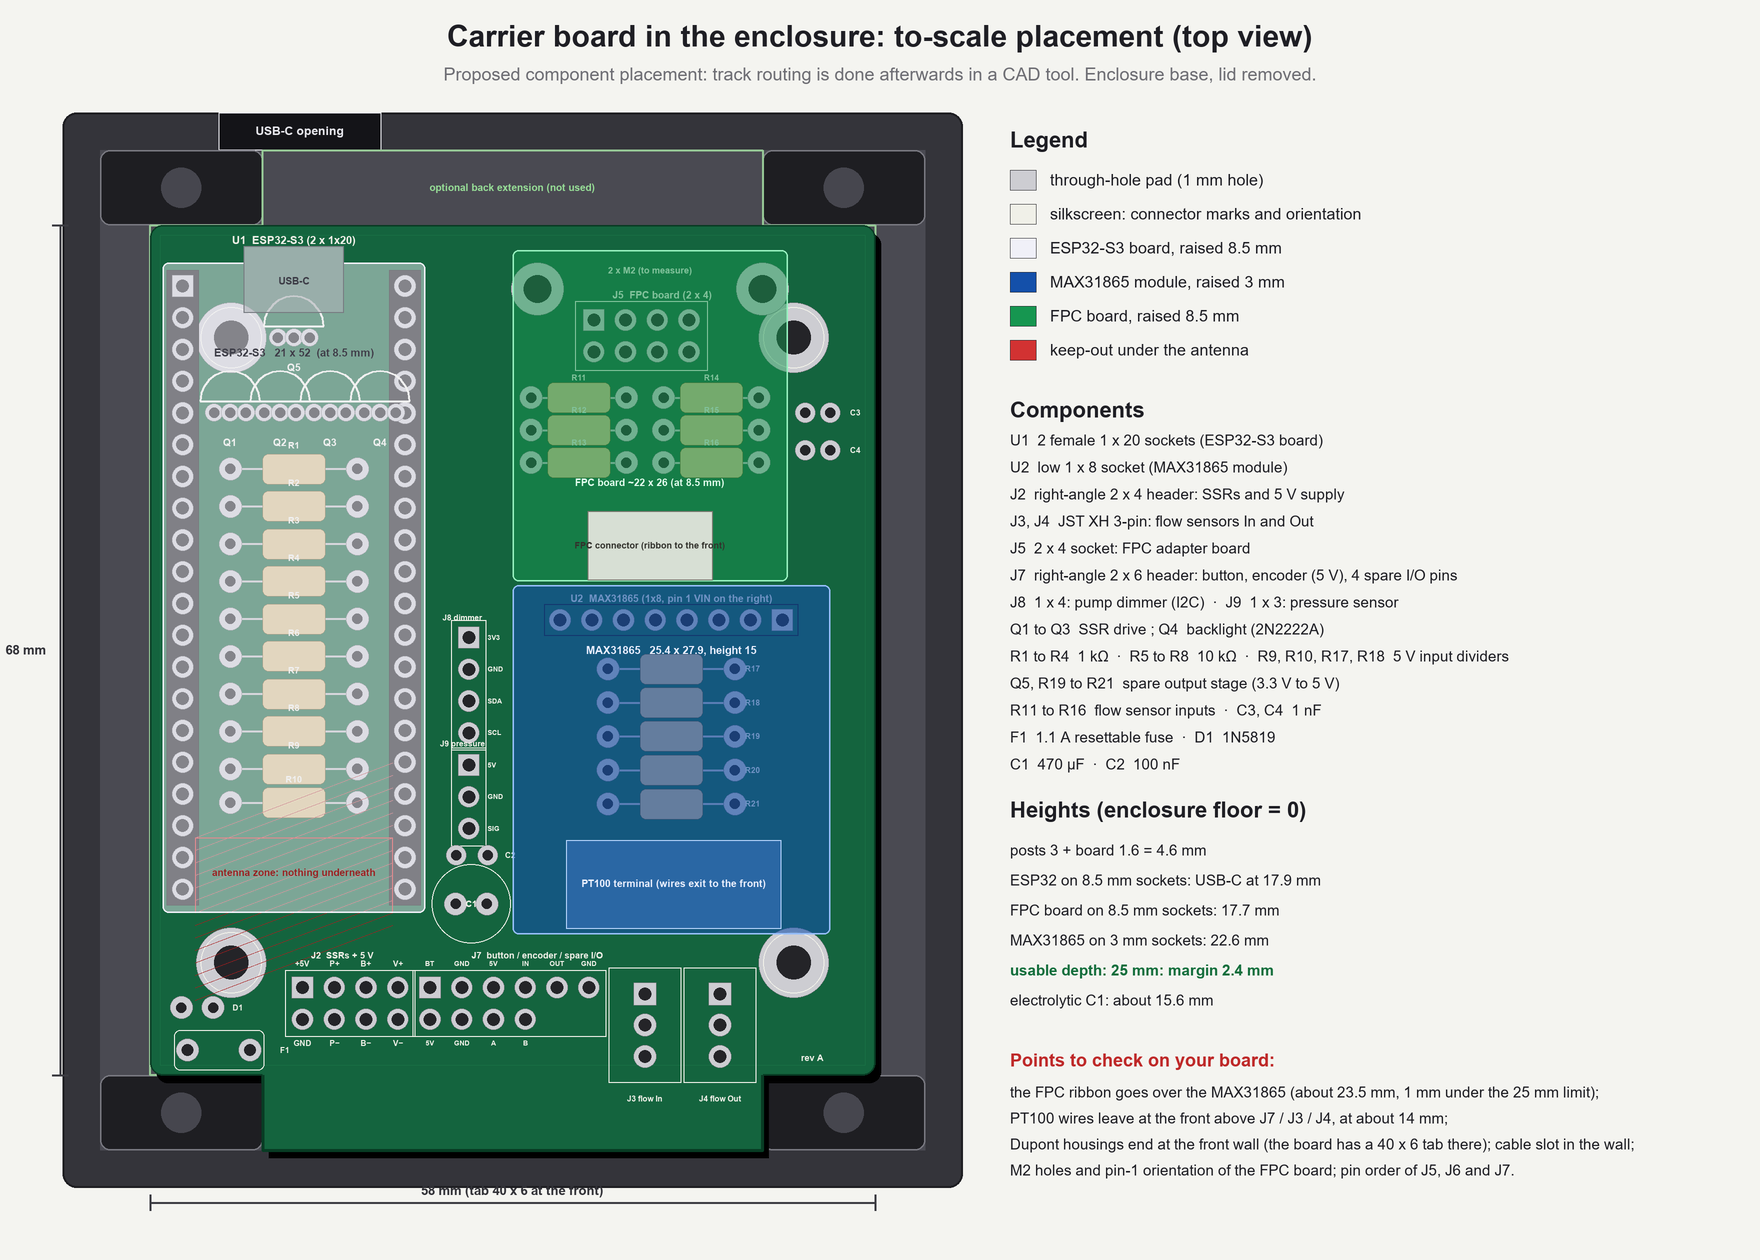
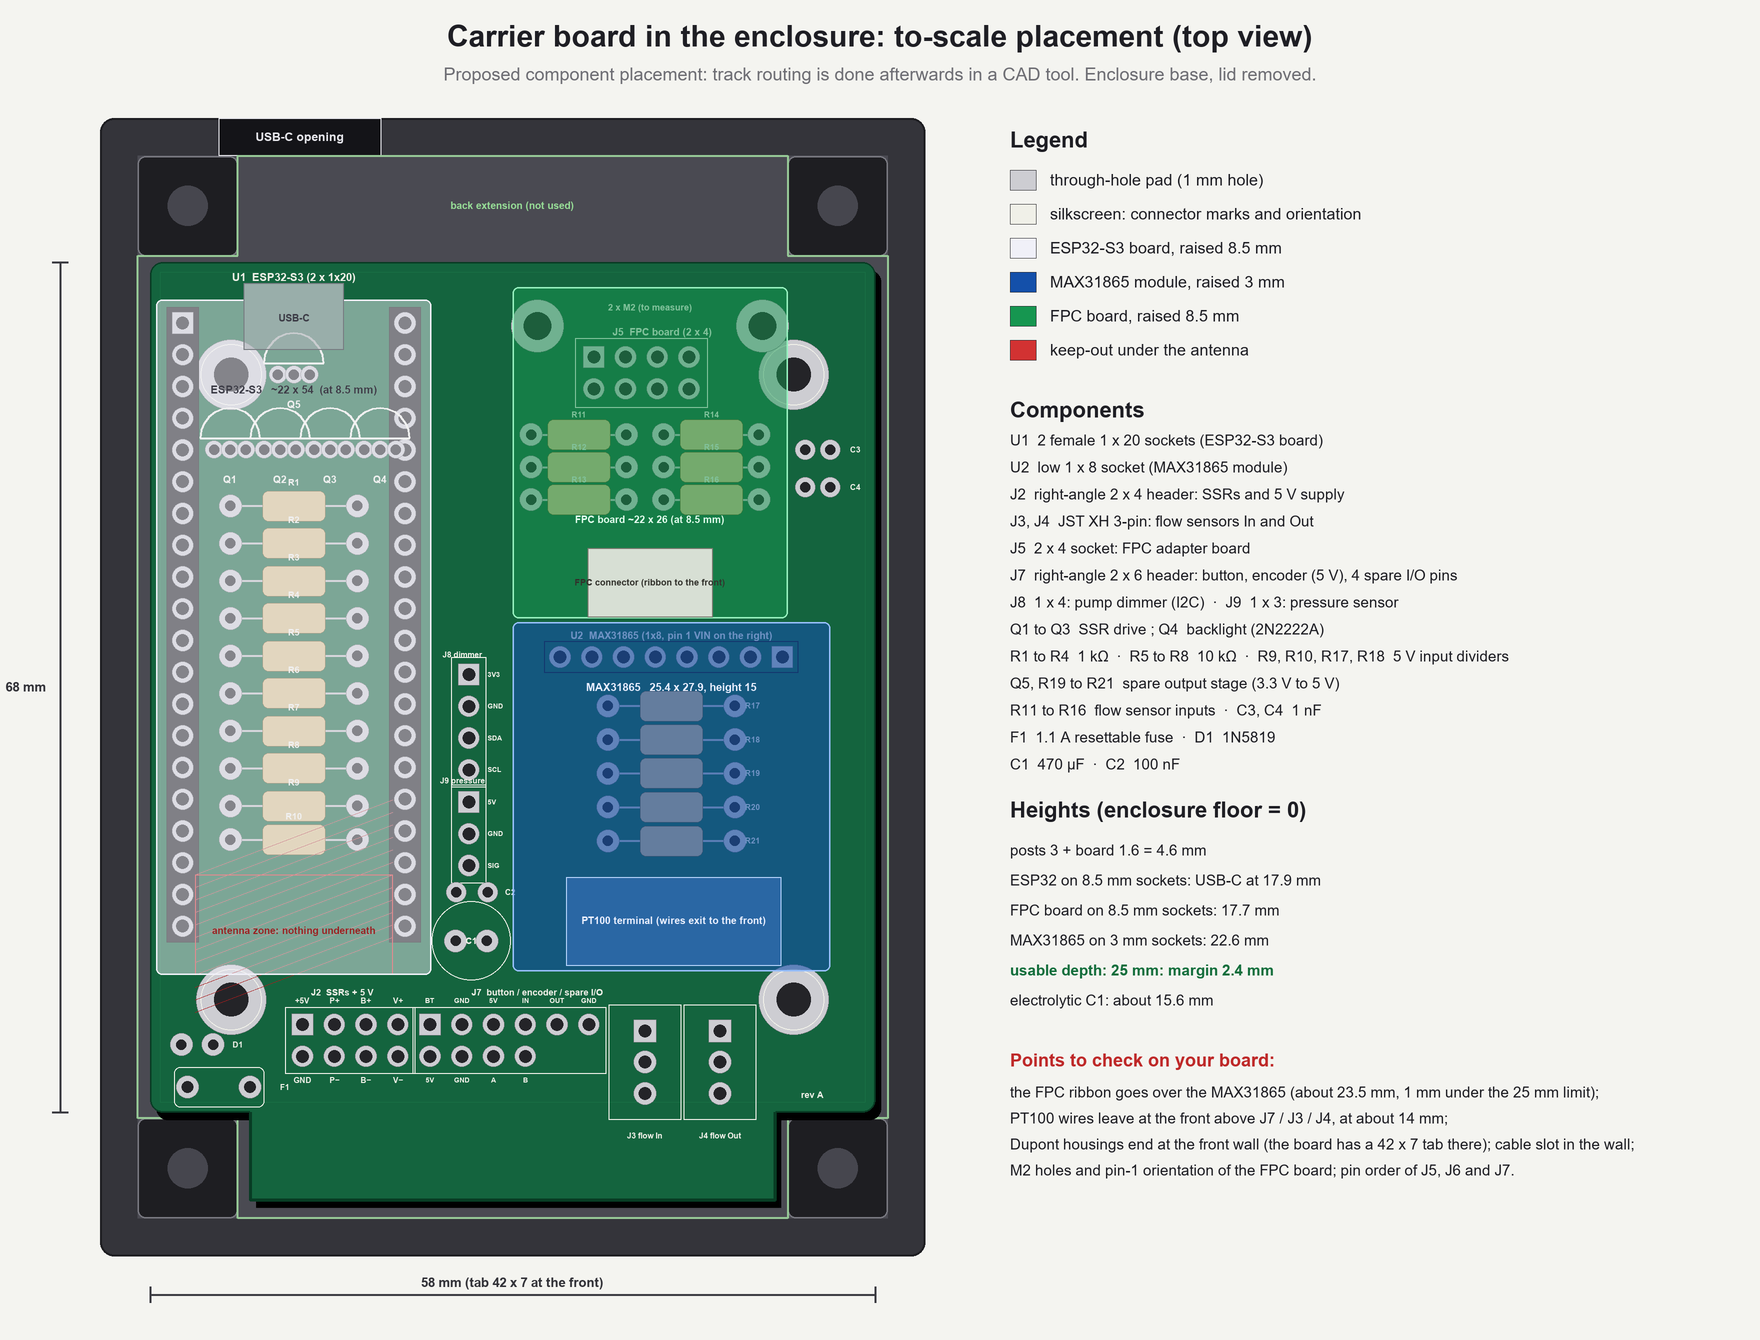
Enclosure geometry from the new measurements (60 x 85 interior, 8 x 8 posts); tab 42 x 7; ESP32 pinout read from the photo

Changed region(s): [[0.0, 0.0, 0.9062, 0.9905]]

diff --git a/tools/carrier_plan.py b/tools/carrier_plan.py
@@ -4,7 +4,7 @@ import os
 from PIL import Image, ImageDraw, ImageFont
 
 SS = 2
-W, H = 1760, 1260
+W, H = 1760, 1340
 K = 12.5                      # px per mm
 base = Image.new('RGBA', (W * SS, H * SS), (244, 244, 240, 255))
 ov = Image.new('RGBA', (W * SS, H * SS), (0, 0, 0, 0))
@@ -16,7 +16,7 @@ def F(sz, b=False):
 def px(x): return x * SS
 
 # the PCB origin on the page and the conversion
-OX, OY = 150, 225
+OX, OY = 150, 262
 def X(mm): return OX + mm * K
 def Y(mm): return OY + mm * K
 
@@ -33,34 +33,33 @@ SILK = (240, 240, 232); PAD = (205, 205, 210); HOLE = (36, 36, 40)
 text(d, W / 2, 36, "Carrier board in the enclosure: to-scale placement (top view)", 30, INK, True)
 text(d, W / 2, 74, "Proposed component placement: track routing is done afterwards in a CAD tool. Enclosure base, lid removed.", 18, GRY)
 
-# ---------------------------------------------------------------- the box (interior 66 x 80, free area 60 x 70)
-INT_W, INT_L = 66.0, 80.0
-bx0, by0 = X(-4), Y(-6)
+# ---------------------------------------------------------------- the box (interior 60 x 85, posts 8 x 8 in the corners)
+INT_W, INT_L = 60.0, 85.0
+bx0, by0 = X(-1), Y(-8.5)
 bx1, by1 = bx0 + INT_W * K, by0 + INT_L * K
 rrect(d, bx0 - 3 * K, by0 - 3 * K, bx1 + 3 * K, by1 + 3 * K, 14, fill=(52, 52, 58, 255), outline=(30, 30, 34, 255), width=4)
 rect(d, bx0, by0, bx1, by1, fill=(74, 74, 82, 255))
 # the opening for the USB-C cable in the back wall (y = top)
 rect(d, X(5.5), by0 - 3 * K, X(18.5), by0, fill=(20, 20, 24, 255), outline=(230, 230, 235, 255), width=2)
 text(d, X(12), by0 - 1.5 * K, "USB-C opening", 12, (230, 230, 235), True)
-# the big posts (lid screws): they leave a plus-shaped usable area (58 x 68 across, plus 40 x 80 along the middle),
-# so each corner is blocked over 13 x 6 mm
-for (xa, xb, ya, yb) in [(-4, 9, -6, 0), (49, 62, -6, 0), (-4, 9, 68, 74), (49, 62, 68, 74)]:
-    rrect(d, X(xa), Y(ya), X(xb), Y(yb), 10, fill=(30, 30, 34, 255), outline=(120, 120, 128, 255), width=3)
+# the four big posts (lid screws): 8 x 8 mm in the corners of the interior. They leave a plus-shaped usable area:
+# 60 wide over 69 long, and 44 wide over the full 85 length.
+for (xa, xb, ya, yb) in [(-1, 7, -8.5, -0.5), (51, 59, -8.5, -0.5), (-1, 7, 68.5, 76.5), (51, 59, 68.5, 76.5)]:
+    rrect(d, X(xa), Y(ya), X(xb), Y(yb), 8, fill=(30, 30, 34, 255), outline=(120, 120, 128, 255), width=3)
     circ(d, (X(xa) + X(xb)) / 2, (Y(ya) + Y(yb)) / 2, 1.6 * K, fill=(70, 70, 78, 255))
-# plus-shaped free area: 58 x 68 plus the central 40 x 80
-cross = [(0, 0), (9, 0), (9, -6), (49, -6), (49, 0), (58, 0), (58, 68), (49, 68), (49, 74), (9, 74), (9, 68), (0, 68)]
+cross = [(-1, -0.5), (7, -0.5), (7, -8.5), (51, -8.5), (51, -0.5), (59, -0.5), (59, 68.5), (51, 68.5), (51, 76.5), (7, 76.5), (7, 68.5), (-1, 68.5)]
 line(d, [(X(a), Y(b)) for a, b in cross + [cross[0]]], (150, 200, 150), 2)
-text(d, X(29), Y(-3.0), "optional back extension (not used)", 10, (150, 220, 150), True)
+text(d, X(29), Y(-4.5), "back extension (not used)", 10, (150, 220, 150), True)
 
 # ---------------------------------------------------------------- the board 58 x 68
 PW, PL = 58.0, 68.0
 rrect(d, X(0) + 6, Y(0) + 8, X(PW) + 6, Y(PL) + 8, 12, fill=(0, 0, 0, 90))          # shadow
 rrect(d, X(0), Y(0), X(PW), Y(PL), 2.5 * K / 2.5, fill=MASK + (255,), outline=(8, 60, 36, 255), width=3)
 rect(d, X(0.8), Y(0.8), X(PW - 0.8), Y(PL - 0.8), outline=MASK2 + (255,), width=1)
-# front tab of the board (40 x 6) on the cable side, in the central extension
-rect(d, X(9) + 6, Y(PL) + 4, X(49) + 6, Y(74) + 8, fill=(0, 0, 0, 90))
-rect(d, X(9), Y(PL) - 5, X(49), Y(74), fill=MASK + (255,))
-line(d, [(X(9), Y(PL)), (X(9), Y(74)), (X(49), Y(74)), (X(49), Y(PL))], (8, 60, 36, 255), 3)
+# front tab of the board (42 x 7) on the cable side, in the central extension
+rect(d, X(8) + 6, Y(PL) + 4, X(50) + 6, Y(75) + 8, fill=(0, 0, 0, 90))
+rect(d, X(8), Y(PL) - 5, X(50), Y(75), fill=MASK + (255,))
+line(d, [(X(8), Y(PL)), (X(8), Y(75)), (X(50), Y(75)), (X(50), Y(PL))], (8, 60, 36, 255), 3)
 
 def hole(cx, cy, dia, ring):
     circ(d, X(cx), Y(cy), ring / 2 * K, fill=PAD + (255,), outline=(120, 120, 126, 255), width=1)
@@ -126,9 +125,9 @@ for i, name in enumerate(["R17", "R18", "R19", "R20", "R21"]):
     text(d, X(47.6), Y(35.5 + i * 2.7), name, 8, SILK, True, 'lm')
 
 # keep-out under the antenna
-for k in range(0, 14):
+for k in range(0, 12):
     line(d, [(X(3.6), Y(49 + k)), (X(19.4), Y(49 + k - 6))], (170, 30, 30, 160), 1)
-rect(d, X(3.6), Y(49.0), X(19.4), Y(55), outline=(210, 50, 50, 255), width=2)
+rect(d, X(3.6), Y(49.0), X(19.4), Y(57), outline=(210, 50, 50, 255), width=2)
 
 # ---------------------------------------------------------------- U2: MAX31865 module socket (1x8), module rotated 180 degrees:
 # header on the rear edge of the module (pin 1 VIN on the right), PT100 terminal block facing the front
@@ -214,10 +213,10 @@ silk(53.0, 66.6, "rev A", 9)
 
 # ---------------------------------------------------------------- the raised boards, translucent (they hide nothing)
 # ESP32-S3 board 21 x 52 at x 1..22, y 3..55
-rrect(o, px(X(1.0)) / SS, px(Y(3.0)) / SS, px(X(22.0)) / SS, px(Y(55.0)) / SS, 6, fill=(240, 240, 248, 120), outline=(240, 240, 248, 255), width=3)
+rrect(o, px(X(0.5)) / SS, px(Y(3.0)) / SS, px(X(22.5)) / SS, px(Y(57.0)) / SS, 6, fill=(240, 240, 248, 120), outline=(240, 240, 248, 255), width=3)
 rect(o, px(X(7.5)) / SS, px(Y(1.7)) / SS, px(X(15.5)) / SS, px(Y(7.0)) / SS, fill=(190, 194, 200, 200), outline=(120, 124, 130, 255), width=2)
-text(o, X(11.5), Y(10.2), "ESP32-S3   21 x 52  (at 8.5 mm)", 11, (60, 60, 70), True)
-text(o, X(11.5), Y(51.8), "antenna zone: nothing underneath", 10, (150, 30, 30), True)
+text(o, X(11.5), Y(10.2), "ESP32-S3   ~22 x 54  (at 8.5 mm)", 11, (60, 60, 70), True)
+text(o, X(11.5), Y(53.5), "antenna zone: nothing underneath", 10, (150, 30, 30), True)
 text(o, X(11.5), Y(4.5), "USB-C", 10, (60, 60, 70), True)
 # MAX31865 module 25.4 x 27.9 at x 29..54.4, y 28.8..56.7, rotated 180 degrees (terminal block at the front)
 rrect(o, px(X(29.0)) / SS, px(Y(28.8)) / SS, px(X(54.4)) / SS, px(Y(56.7)) / SS, 6, fill=(20, 80, 170, 150), outline=(150, 190, 250, 255), width=3)
@@ -243,7 +242,7 @@ def dim_v(x, y0, y1, label):
     for yy in (y0, y1):
         line(d, [(X(x) - 8, Y(yy)), (X(x) + 8, Y(yy))], (60, 60, 66), 2)
     d.text((px(X(x) - 14), px(Y((y0 + y1) / 2))), label, font=F(13, True), fill=(50, 50, 56), anchor='rm')
-dim_h(0, 58, 78.2, "58 mm (tab 40 x 6 at the front)")
+dim_h(0, 58, 82.6, "58 mm (tab 42 x 7 at the front)")
 dim_v(-7.2, 0, 68, "68 mm")
 
 # ---------------------------------------------------------------- legend, to the right
@@ -297,7 +296,7 @@ text(d, lx, 1060, "Points to check on your board:", 18, (190, 40, 40), True, 'lm
 chk = [
     "the FPC ribbon goes over the MAX31865 (about 23.5 mm, 1 mm under the 25 mm limit);",
     "PT100 wires leave at the front above J7 / J3 / J4, at about 14 mm;",
-    "Dupont housings end at the front wall (the board has a 40 x 6 tab there); cable slot in the wall;",
+    "Dupont housings end at the front wall (the board has a 42 x 7 tab there); cable slot in the wall;",
     "M2 holes and pin-1 orientation of the FPC board; pin order of J5, J6 and J7.",
 ]
 for i, t in enumerate(chk):

diff --git a/tools/box_iso3.py b/tools/box_iso3.py
@@ -43,7 +43,7 @@ def label(px, py, tx, ty, t, color=(30, 30, 36), size=17):
 
 # ---------------------------------------------------------------- dimensions (mm)
 WALL = 3.0
-INT_X, INT_Y = 66.0, 80.0           # interior: x across, y along (the long side)
+INT_X, INT_Y = 60.0, 85.0           # interior: x across, y along (the long side)
 BX, BY = INT_X + 2 * WALL, INT_Y + 2 * WALL
 BASE_H = 16.0                        # height of the base half (the walls)
 FLOOR = 2.0
@@ -59,17 +59,17 @@ poly([(0, 0, FLOOR), (BX, 0, FLOOR), (BX, BY, FLOOR), (0, BY, FLOOR)], shade(PLA
 poly([(WALL, WALL, FLOOR), (BX - WALL, WALL, FLOOR), (BX - WALL, WALL, BASE_H), (WALL, WALL, BASE_H)], shade(PLASTIC, 0.78), (20, 20, 24))
 poly([(WALL, WALL, FLOOR), (WALL, BY - WALL, FLOOR), (WALL, BY - WALL, BASE_H), (WALL, WALL, BASE_H)], shade(PLASTIC, 0.9), (20, 20, 24))
 # the opening for the USB-C cable in the back wall y = 0 (seen on its inner face)
-ux0 = WALL + 9.0
+ux0 = WALL + 8.0
 poly([(ux0, WALL, 7), (ux0 + 12, WALL, 7), (ux0 + 12, WALL, 15), (ux0, WALL, 15)], (14, 14, 18), (230, 230, 235), 2)
 # top of the back walls
 poly([(0, 0, BASE_H), (BX, 0, BASE_H), (BX - WALL, WALL, BASE_H), (WALL, WALL, BASE_H)], shade(PLASTIC, 1.25), (20, 20, 24))
 poly([(0, 0, BASE_H), (0, BY, BASE_H), (WALL, BY - WALL, BASE_H), (WALL, WALL, BASE_H)], shade(PLASTIC, 1.2), (20, 20, 24))
 # the big posts (plus-shaped usable area: each corner blocked over 13 x 6 mm); the back ones here, the front ones after the board
-for (px, py) in [(WALL, WALL), (BX - WALL - 13, WALL)]:
-    cuboid(px, py, FLOOR, 13, 6, BASE_H - FLOOR, (40, 40, 46))
+for (px, py) in [(WALL, WALL), (BX - WALL - 8, WALL)]:
+    cuboid(px, py, FLOOR, 8, 8, BASE_H - FLOOR, (40, 40, 46))
 
 # ---------------------------------------------------------------- the carrier and what it holds
-CX0, CY0 = WALL + 4.0, WALL + 6.0     # origin of the carrier (58 x 68)
+CX0, CY0 = WALL + 1.0, WALL + 8.5     # origin of the carrier (58 x 68)
 PCB_Z = FLOOR + 3.0                   # on the four small standoffs of 3 mm
 PCBT = 1.6
 top = PCB_Z + PCBT
@@ -83,7 +83,7 @@ sy0 = CY0 + (68 - 50) / 2
 for (ax, ay) in [(sx0, sy0), (sx0 + 45, sy0), (sx0, sy0 + 50), (sx0 + 45, sy0 + 50)]:
     cuboid(ax - 2.4, ay - 2.4, FLOOR, 4.8, 4.8, 3.0, (36, 36, 42))
 cuboid(CX0, CY0, PCB_Z, 58, 68, PCBT, (22, 110, 66))
-cuboid(CX0 + 9, CY0 + 68, PCB_Z, 40, 6, PCBT, (22, 110, 66))          # front tab (cable side)
+cuboid(CX0 + 8, CY0 + 68, PCB_Z, 42, 7, PCBT, (22, 110, 66))          # front tab (cable side)
 
 GOLD = (214, 178, 70)
 BLACK = (24, 24, 28)
@@ -92,7 +92,7 @@ WHITE = (238, 236, 226)
 # ESP32-S3 (21 x 52) on sockets of 8.5 mm, at the left; USB-C towards the back wall
 ex, ey = CX0 + 1, CY0 + 3
 add(ex, ey + 1, top, 2.4, 50, 8.5, BLACK); add(ex + 21 - 2.4, ey + 1, top, 2.4, 50, 8.5, BLACK)
-add(ex, ey, top + 8.5, 21, 52, 1.6, (236, 236, 242))
+add(ex - 0.5, ey, top + 8.5, 22, 54, 1.6, (236, 236, 242))
 add(ex + 5.5, ey - 1.3, top + 8.5 + 1.6, 10, 7.5, 3.2, (190, 194, 200))     # USB-C
 add(ex + 6, ey + 14, top + 8.5 + 1.6, 9, 9, 1.0, BLACK)                     # the module (shield)
 add(ex + 3, ey + 43, top + 8.5 + 1.6, 15, 8, 0.8, (236, 226, 196))          # antenna
@@ -138,8 +138,8 @@ for k in range(2):
 items.sort(key=lambda t: t[0])
 for _, fn in items:
     fn()
-for (px, py) in [(WALL, BY - WALL - 6), (BX - WALL - 13, BY - WALL - 6)]:
-    cuboid(px, py, FLOOR, 13, 6, BASE_H - FLOOR, (40, 40, 46))
+for (px, py) in [(WALL, BY - WALL - 8), (BX - WALL - 8, BY - WALL - 8)]:
+    cuboid(px, py, FLOOR, 8, 8, BASE_H - FLOOR, (40, 40, 46))
 
 # ---------------------------------------------------------------- the front walls of the base (cut low, to see inside)
 FW = 5.0

diff --git a/docs/carrier_spec.md b/docs/carrier_spec.md
@@ -3,9 +3,10 @@
 All **through-hole** parts (no SMD soldering). Related files: `images/carrier_plan.png` (to-scale placement), `images/box_iso3.png` (3D view), `images/carrier_schema.png` (connection schematic).
 
 ## Dimensions and mounting
-- Usable area in the enclosure (interior 66 x 80 mm), from your measurements: **58 x 68 mm** between the big posts, and in the middle **80 mm long over a 40 mm width** avoiding the posts. Together they form a plus-shaped area, so each corner is blocked over **13 x 6 mm** (the posts are drawn as these corner blocks; if they are round, send me their diameter and centres).
-- Board: **58 x 68 mm main body, plus a 40 x 6 mm tab on the cable (front) side** (x from 9 to 49), so the board is 74 mm long at the tab; two layers, ground plane. The tab lets the Dupont housings of J2 / J7 and the JST XH plugs sit on the board up to the front wall; the back extension (also 40 x 6 mm) is not used.
-- 4 mounting holes on the **3 mm** small posts, **45 x 50 mm** spacing.
+- Enclosure interior (measured): **60 mm wide x 85 mm long**. The four big posts are **8 x 8 mm** in the corners. The small posts (3 mm high) are at **45 x 50 mm**, centred.
+- The posts leave a plus-shaped usable area: **60 x 69 mm** between the posts along the long sides (y from 8 to 77) and **44 mm wide over the full 85 mm length** between the end posts.
+- Board: **58 x 68 mm main body** (0.5 to 1 mm of margin all round) **plus a 42 x 7 mm tab on the cable (front) side**, so the board is 75 mm long at the tab; two layers, ground plane. The tab lets the Dupont housings of J2 / J7 and the JST XH plugs sit on the board up to the front wall; the back extension (same size) is not used.
+- 4 mounting holes on the **3 mm** small posts, **45 x 50 mm** spacing, centred in the interior (board coordinates (6.5, 9), (51.5, 9), (6.5, 59), (51.5, 59)).
 - Usable depth **25 mm**: posts 3 + board 1.6 = 4.6 mm; ESP32 on 8.5 mm sockets (USB-C at 17.9 mm); FPC adapter board on 8.5 mm sockets (17.7 mm); MAX31865 on low 3 mm sockets (22.6 mm, 2.4 mm margin).
 - **Front connector row:** right-angle headers with their Dupont housings need about **9 mm in front of the pads** (keep-out, nothing else there); J2, J7 and the vertical JST XH J3 / J4 are side by side on the front edge. F1 and D1 sit in the front-left corner (in front of the mounting hole), C1 and C2 in the corridor between the ESP32 and the MAX31865. A cable slot is needed in the front wall (housings end about 6 mm from it).
 - **Cable sides:** all cables leave through the **front** (J2, J7, J3, J4, and the PT100 wires). The USB-C and the display ribbon are at the **back**.
@@ -24,7 +25,7 @@ All **through-hole** parts (no SMD soldering). Related files: `images/carrier_pl
 | J7 | 2 x 6 right-angle male header | button + encoder (encoder powered from 5 V) + 4 spare I/O pins (+5 V, level-adapted input, level-adapted output, GND) |
 | J8 | 1 x 4 header | RobotDyn 4 A pump dimmer, **I2C** (powered from 3.3 V) |
 | J9 | 1 x 3 header | pressure sensor 0.5 to 4.5 V, 0 to 12 bar (powered from 5 V) |
-| ESP | 2 x 1 x 20 female sockets | ESP32-S3 board (row spacing to be measured) |
+| ESP | 2 x 1 x 20 female sockets | ESP32-S3 board (about 22 x 54 mm from the photo; row spacing to be measured) |
 
 ### J2 (2 x 4: row A on top, row B at the bottom, pin 1 on the left)
 | | 1 | 2 | 3 | 4 |
@@ -89,8 +90,11 @@ G1/4 sensor, 0 to 12 bar, 0.5 to 4.5 V output. The signal goes through a divider
 ### J6 (MAX31865 module)
 VIN (3.3 V), 3Vo (unused), GND, CLK (GPIO 12), SDO (GPIO 13), SDI (GPIO 11), CS (GPIO 7), RDY (unused). This is the Adafruit order (VIN, 3Vo, GND, CLK, SDO, SDI, CS, RDY).
 
+## ESP32-S3 board (read on the photo)
+Silkscreen read on the photo, left column from the USB-C end: GND, 5V, G48, BOOT, 48, 47, 38, 39, 40, 21, GND, 18, 17, 16, 15, 41, 42, 45, 46. Right column: GND, 3V3, PWR, RST, 14, 13, 12, 11, 10, 09, 08, 07, GND, 06, 05, 04, 03, 02, 01. Every GPIO used in this design (1, 4, 5, 6, 7, 8, 9, 10, 11, 12, 13, 14, 15, 16, 17, 18, 21, 38, 39, 47, 48) is broken out on this board, and the strapping pins to avoid (0 = BOOT, 3, 45, 46) are the ones marked. Still free: 2 (right), 40, 41, 42 (left). To confirm by you: exact board size (the photo suggests about 22 x 54 mm plus about 1.5 mm of USB-C overhang), pin count per side (about 20), and row spacing.
+
 ## ESP32-S3 pins
-5V, 3V3, GND; GPIO 17 (pump SSR), 18 (boiler SSR), 21 (valve SSR); 15 (flow In), 16 (flow Out); 4 / 5 (encoder); 6 (button); 11 / 12 / 13 (SPI MOSI / SCK / MISO); 10 (display CS); 9 / 8 (display DC / RST); 14 (backlight); 7 (MAX31865 CS); 47 / 48 (dimmer, I2C SDA / SCL); 1 (pressure, ADC); 38 (spare, on J7). Avoided: 0, 3, 45, 46, 19, 20, 35 to 37.
+5V, 3V3, GND; GPIO 17 (pump SSR), 18 (boiler SSR), 21 (valve SSR); 15 (flow In), 16 (flow Out); 4 / 5 (encoder); 6 (button); 11 / 12 / 13 (SPI MOSI / SCK / MISO); 10 (display CS); 9 / 8 (display DC / RST); 14 (backlight); 7 (MAX31865 CS); 47 / 48 (dimmer, I2C SDA / SCL); 1 (pressure, ADC); 38 (spare, on J7). Avoided: 0, 3, 45, 46, 19, 20, 35 to 37 (not broken out on this board).
 
 ## Circuits
 - **Power:** J2 A1 (+5 V) → 1.1 A resettable fuse → 1N5819 diode (reverse protection) → +5 V rail (470 µF + 100 nF) → ESP32 5V pin. The 3.3 V comes from the ESP32 board.
@@ -115,7 +119,7 @@ VIN (3.3 V), 3Vo (unused), GND, CLK (GPIO 12), SDO (GPIO 13), SDI (GPIO 11), CS 
 | 1 | 470 µF 10 V radial capacitor; 4 x 100 nF; 2 x 1 nF | 1 € |
 | 4 | 3 mm standoffs (existing) + M2.5 screws | 0 |
 | | **Total parts** | **about 6 to 9 €** |
-| 5 | bare boards, 58 x 68 mm + 40 x 6 mm tab, 2 layers (shipping included) | 10 to 20 € |
+| 5 | bare boards, 58 x 68 mm + 42 x 7 mm tab, 2 layers (shipping included) | 10 to 20 € |
 
 ## Points to confirm before manufacturing
 1. Pin order, supply and backlight of your display ribbon (J5).
@@ -126,4 +130,5 @@ VIN (3.3 V), 3Vo (unused), GND, CLK (GPIO 12), SDO (GPIO 13), SDI (GPIO 11), CS 
 6. MAX31865 module (Adafruit, measured from the manufacturer's drawing): 25.4 x 27.9 mm, mounting holes 0.9" apart and 0.1" from the terminal-block edge, 1 x 8 header at 0.1" pitch on the short edge.
 7. Pump dimmer: one-time switch from UART to I2C (see J8); behaviour with the vibration pump to test; I2C pull-ups (4.7 kΩ) fitted on the board.
 8. Pressure sensor: confirm 3 wires (+5 V, GND, signal) and the G1/4 fitting on the hydraulic circuit.
-9. Display ribbon over the MAX31865: ribbon length and thickness, clearance to the lid; orientation of pin 1 on your FPC adapter board (mounted rotated 180 degrees).
+9. USB-C: the connector (x 7.5 to 15.5 mm) is right next to the 8 x 8 mm back-left post (x up to 7 mm); a plug body wider than the connector would touch the post, so check the plug or shift the ESP32 by 1 to 2 mm.
+10. Display ribbon over the MAX31865: ribbon length and thickness, clearance to the lid; orientation of pin 1 on your FPC adapter board (mounted rotated 180 degrees).

diff --git a/README.md b/README.md
@@ -20,7 +20,7 @@ Status: **working design, nothing has been manufactured.** Placement is to scale
 - `images/`: the three pictures above, all generated from the scripts in `tools/` (Python + Pillow; measurements are at the top of each file): `carrier_plan.py`, `box_iso3.py`, `carrier_schema.py`.
 
 ## Principles
-- 58 x 68 mm board with a 40 x 6 mm tab on the cable side, in the plus-shaped free area of the enclosure (58 x 68 plus 40 x 80), on four 3 mm standoffs (45 x 50 mm spacing), 25 mm usable depth.
+- 58 x 68 mm board with a 42 x 7 mm tab on the cable side, in the plus-shaped free area of the 60 x 85 mm enclosure (8 x 8 mm corner posts), on four 3 mm standoffs (45 x 50 mm spacing), 25 mm usable depth.
 - Through-hole parts only (no SMD soldering).
 - ESP32-S3 and MAX31865 module on sockets; FPC adapter board (remote display) on a 2 x 4 socket.
 - SSRs are kept, driven by 2N2222A transistors from the external 5 V supply.
